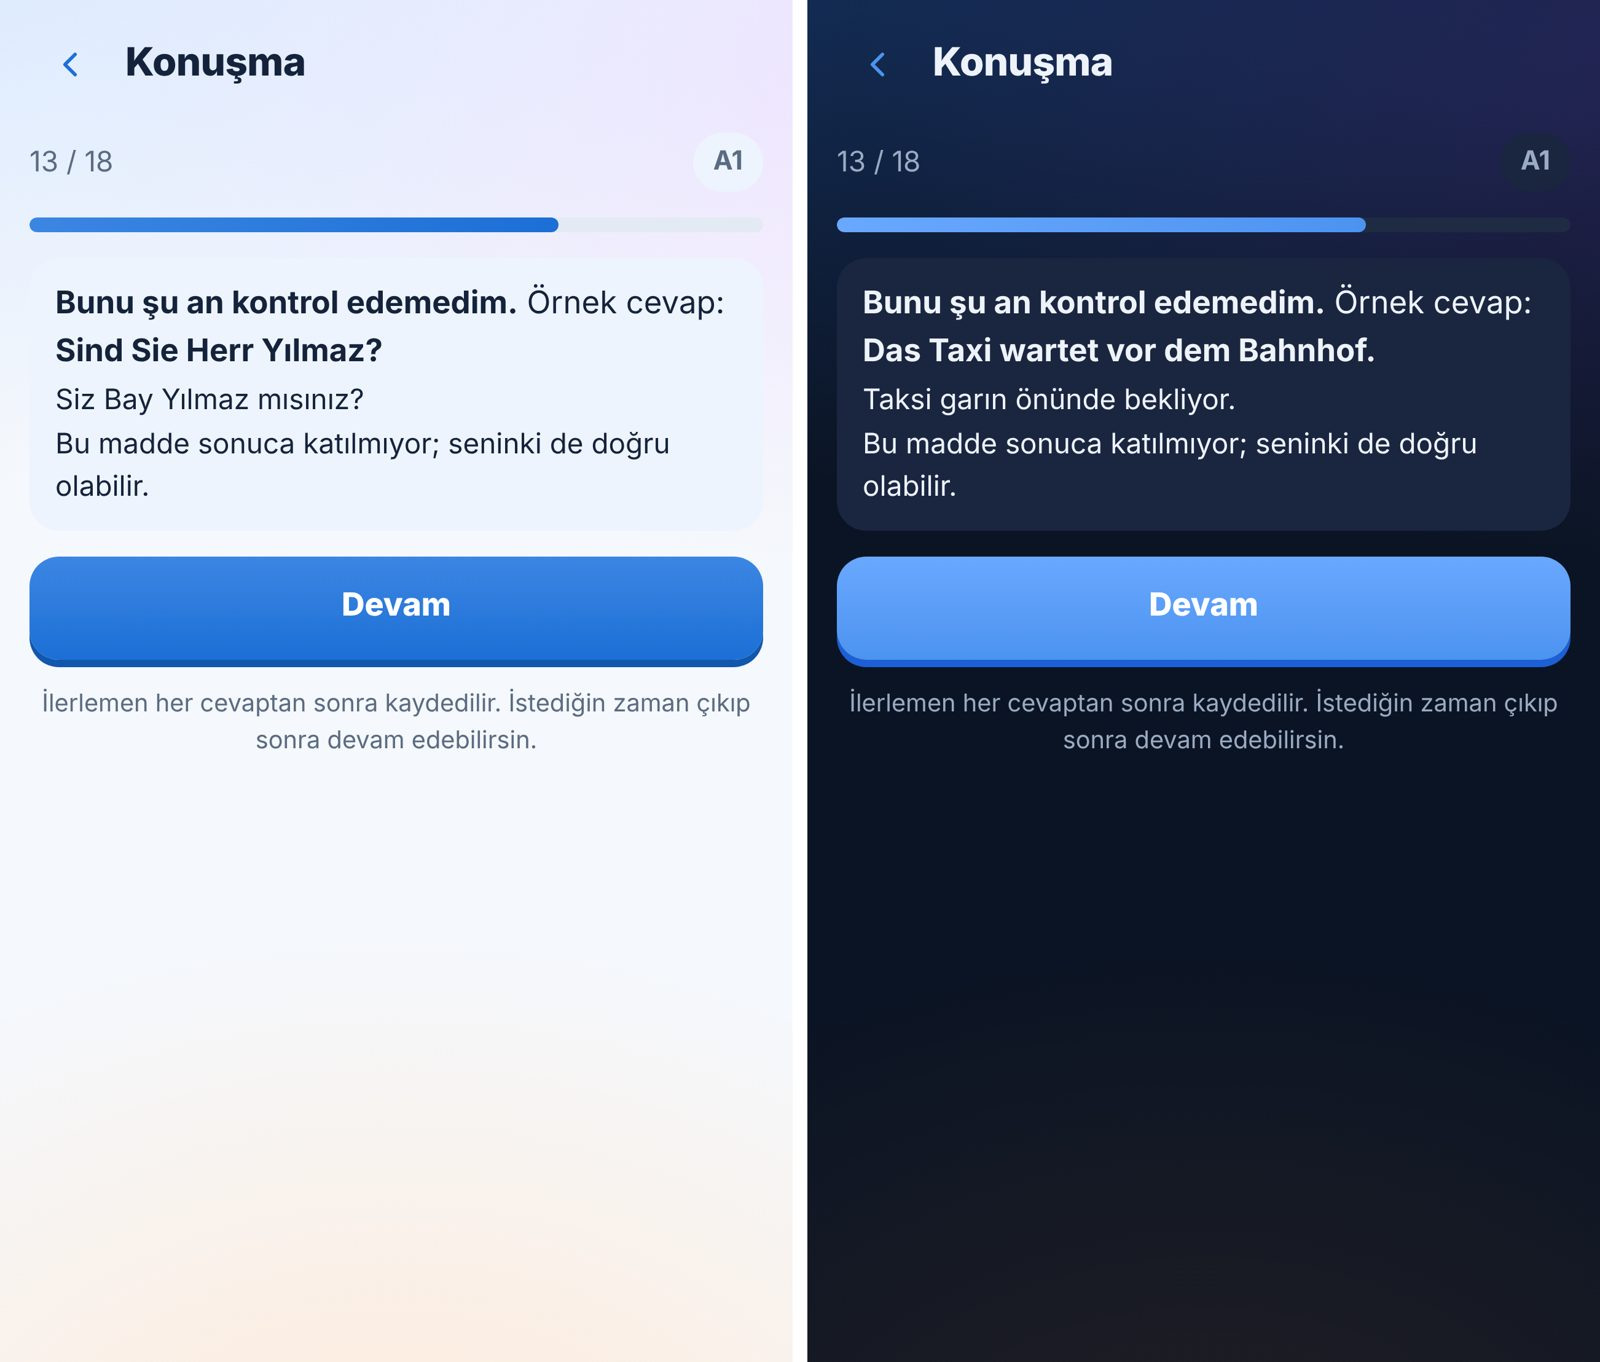
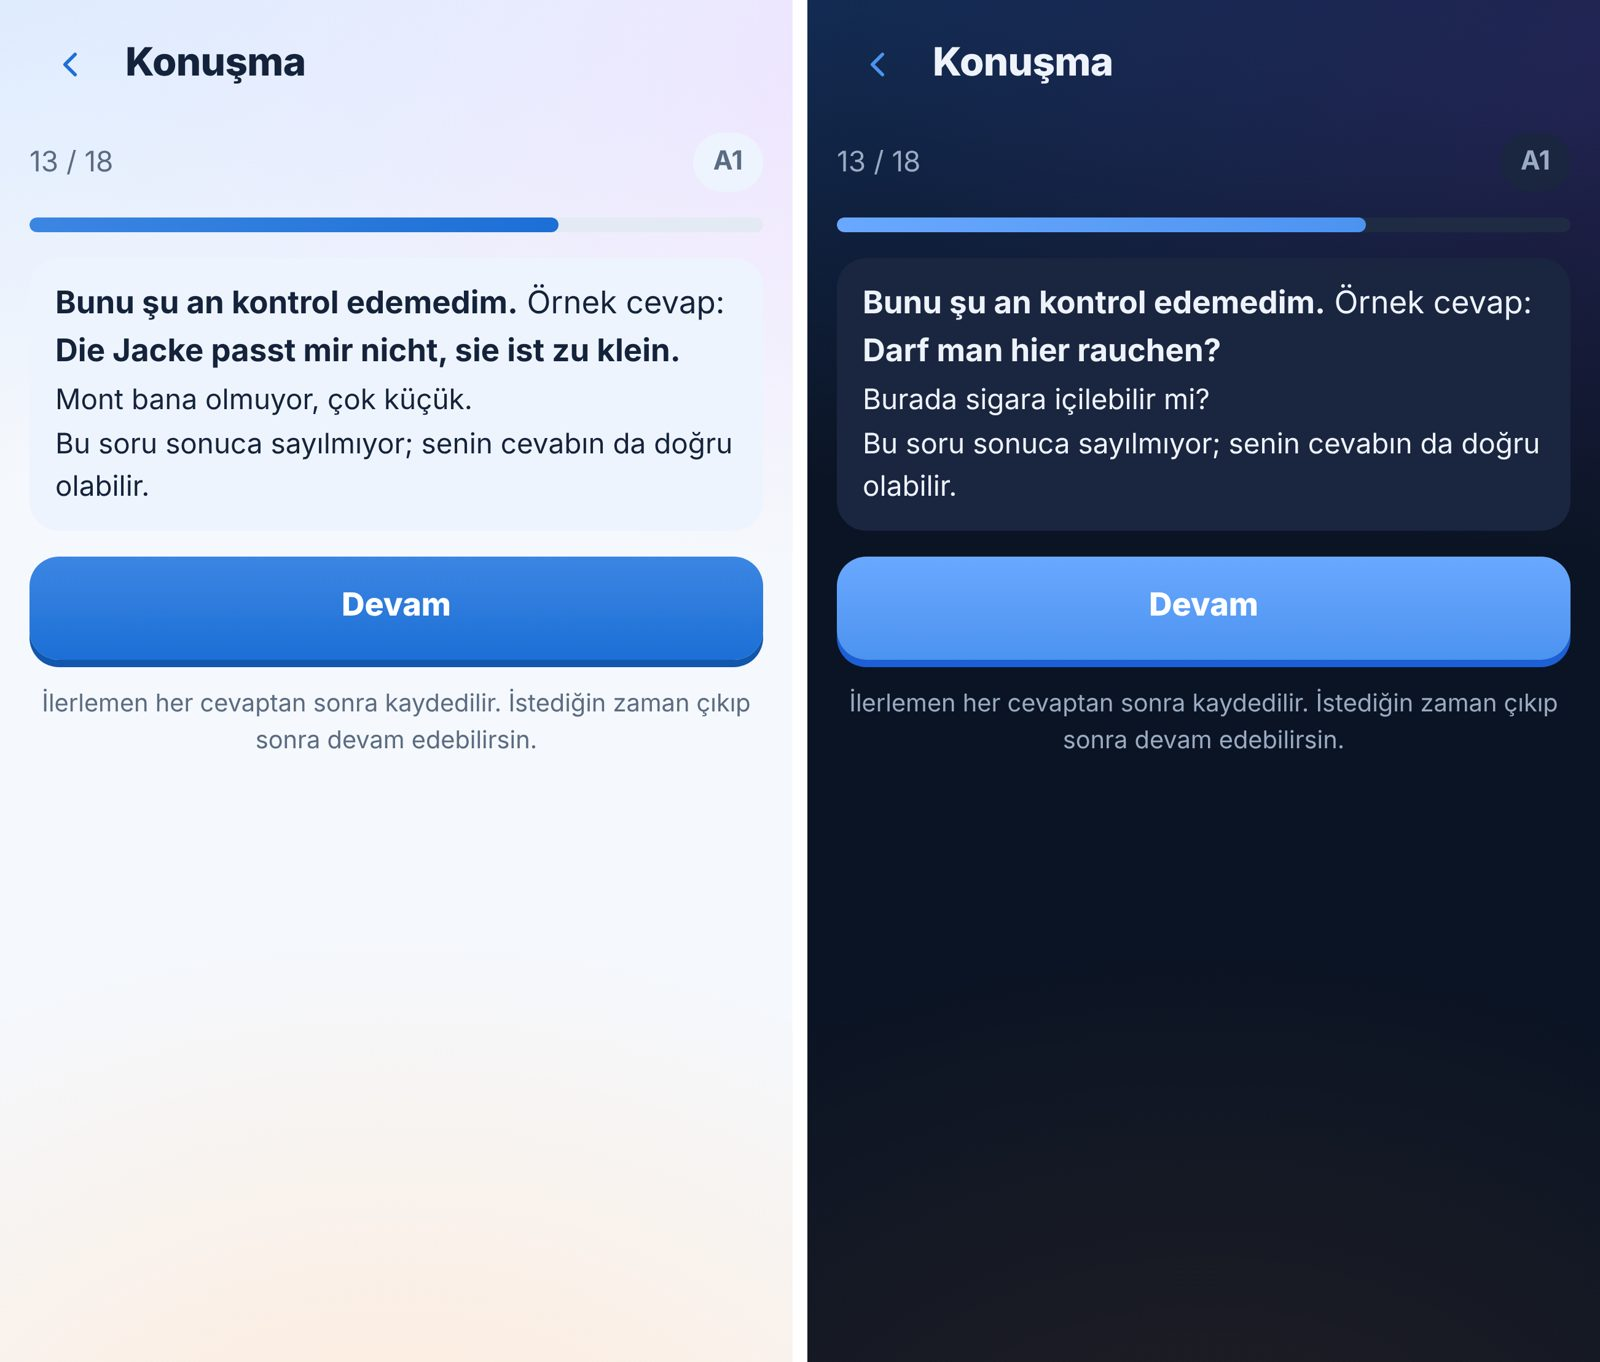
#218 takipleri: inceleme #249 1. tur
P1-1: yalnız işlev sözcüklerinden iki kelimelik eşdizim ("ich nicht") cümlede kalıp sayılmaz; aynı kalıp
ikinci kez geçerse de kapanır. P1-2: tespitte devre kesici açıkken cevap denetlenemedi sayılır; bütün
cevapları denetlenemeyen seviye tahmini kesmez (ölçülemedi, atlanır); e2e bütün konuşma maddelerine bakar.
P2: gündelik biçim kendi anlamıyla; "Bu soru sonuca sayılmıyor; senin cevabın da doğru olabilir.";
forbidden metni genel. Görüntüler yenilendi.

Claude-Session: https://claude.ai/code/session_016gishFzSCLgyy6gms3wQN2

Changed region(s): [[0.0312, 0.2467, 0.4688, 0.3392], [0.5312, 0.2467, 0.9688, 0.3392]]

diff --git a/web/src/core/sozluk.test.ts b/web/src/core/sozluk.test.ts
@@ -38,14 +38,28 @@ describe("yerel sözlük (#58 A11)", () => {
   it("iletişim kalıbı önce: senaryonun kalıbı ne zaman söylendiğiyle gelir; bütün ifade de kalıbın kendisi", () => {
     const ch = [{ id: "ch:gruess-gott", tr: "Merhaba (güneyde selam)", lexemes: [], register: "neutral", layers: { hd: "Guten Tag!", alltag: "Grüß Gott!" }, alltag_exp: { anlam_tr: "Merhaba.", ne_zaman_tr: "Bavyera'da **selamlaşırken** söylenir.", parcalar: [] }, requires: [], mistakes_tr: [] }] as never;
     const lx = [...LEX, L({ id: "Gott", de: "Gott", tr: "Tanrı", pos: "noun", art: "der", collocations: [{ de: "Grüß Gott!", tr: "Merhaba!" }] })];
-    expect(yerelAcikla("Grüß Gott!", lx, { chunks: ch })).toEqual({ kaynak: "ifade", de: "Grüß Gott!", tr: "Merhaba (güneyde selam)", not: "Bavyera'da selamlaşırken söylenir." });
+    expect(yerelAcikla("Grüß Gott!", lx, { chunks: ch })).toEqual({ kaynak: "ifade", de: "Grüß Gott!", tr: "Merhaba.", not: "Bavyera'da selamlaşırken söylenir." });
     const a = yerelAcikla("Grüß Gott, Frau Huber!", lx, { chunks: ch })!;
-    expect(a.ifadeler).toEqual([{ de: "Grüß Gott!", tr: "Merhaba (güneyde selam)", not: "Bavyera'da selamlaşırken söylenir." }]);
+    expect(a.ifadeler).toEqual([{ de: "Grüß Gott!", tr: "Merhaba.", not: "Bavyera'da selamlaşırken söylenir." }]);
   });
   it("kalıp örneği bütün olarak; yer tutuculu eşdizim (___, [Name]) eşleşmez", () => {
     const pt = [{ id: "pt:ich-habe", examples: [{ de: "Ich habe morgen Zeit.", tr: "Yarın vaktim var.", layer: "hd" }] }] as never;
     expect(yerelAcikla("Ich habe morgen Zeit.", LEX, { patterns: pt })).toMatchObject({ kaynak: "ifade", tr: "Yarın vaktim var." });
     const lx = [L({ id: "x", de: "machen", tr: "yapmak", pos: "verb", collocations: [{ de: "___ machen", tr: "yapmak" }] }), ...LEX];
     expect(yerelAcikla("Sie machen das gut.", lx)?.ifadeler).toBeUndefined();
+  });
+  it("yalnız işlev sözcüklerinden iki kelimelik eşdizim cümlede kalıp sayılmaz; aynı kalıp iki kez geçerse ikisi de kapanır (inceleme #249)", () => {
+    const lx = [...LEX, L({ id: "ich", de: "ich", tr: "ben", pos: "pron", collocations: [{ de: "ich nicht", tr: "ben değil" }] }), L({ id: "kennen", de: "kennen", tr: "tanımak", pos: "verb" }), L({ id: "nicht", de: "nicht", tr: "değil", pos: "adv" }),
+      L({ id: "Gott", de: "Gott", tr: "Tanrı", pos: "noun", art: "der", collocations: [{ de: "Grüß Gott!", tr: "Merhaba!" }] })];
+    const a = yerelAcikla("Das Wort kenne ich nicht.", lx)!;
+    expect(a.ifadeler).toBeUndefined();
+    expect(a.kelimeler!.map((k) => k.de)).toEqual(expect.arrayContaining(["ich", "nicht"]));
+    const b = yerelAcikla("Grüß Gott, Grüß Gott!", lx)!;
+    expect(b.ifadeler).toEqual([{ de: "Grüß Gott!", tr: "Merhaba!" }]);
+    expect(b.kelimeler!.map((k) => k.de)).not.toContain("Gott");
+  });
+  it("iletişim kalıbının gündelik biçimi kendi anlamıyla", () => {
+    const ch = [{ id: "ch:x", tr: "Nasılsınız?", lexemes: [], register: "neutral", layers: { hd: "Wie geht es Ihnen?", alltag: "Wie geht's?" }, alltag_exp: { anlam_tr: "Nasılsın?", parcalar: [] }, requires: [], mistakes_tr: [] }] as never;
+    expect(yerelAcikla("Wie geht's?", LEX, { chunks: ch })).toMatchObject({ kaynak: "ifade", tr: "Nasılsın?" });
   });
 });

diff --git a/web/src/core/sozluk.ts b/web/src/core/sozluk.ts
@@ -31,6 +31,12 @@ const duz = (s?: string) => s?.replace(/\*\*/g, "").trim() || undefined;
 /** Yer tutucusuz ifadeler (yer tutucu: ___, …, [Name], {name}, "+ isim") */
 const ifadeMi = (de: string) => !/_{2,}|…|\.\.\.|\[|\{|\+/.test(de);
 const parcala = (s: string) => norm(s).split(" ").filter(Boolean);
+/**
+ * İşlev sözcükleri: yalnız bunlardan oluşan iki kelimelik kalıp ("ich nicht = ben değil") cümlede kalıp sayılmaz; "Das Wort kenne
+ * ich nicht" içinde yanlış eşleşir (inceleme #249 P1-1). Normalleştirilmiş biçimler (norm: ü → ue).
+ */
+const ISLEV = new Set("ich du er sie es wir ihr man nicht kein keine und oder aber denn das der die den dem des ein eine einen einem einer ist bin bist sind war hat habe hast haben zu im in an am auf mit von vom zum zur fuer bei ja nein so wie was wo nur auch noch schon mal bitte da hier dann jetzt sehr gut mir dir mich dich uns euch ihn ihm".split(" "));
+const kalipMi = (t: string[]) => t.length >= 3 || (t.length === 2 && t.some((w) => !ISLEV.has(w)));
 function adayEkle(a: Aday[], de: string | undefined, tr: string | undefined, o: Partial<Aday> = {}) {
   if (!de || !tr || !ifadeMi(de)) return;
   const t = parcala(temiz(de));
@@ -42,7 +48,8 @@ function ekAdaylar(ek: YerelEk): Aday[] {
   for (const c of ek.chunks ?? []) {
     const not = duz(c.exp?.ne_zaman_tr);
     adayEkle(a, c.layers.hd, c.tr, { not });
-    adayEkle(a, c.layers.alltag, c.tr, { not: duz(c.alltag_exp?.ne_zaman_tr) ?? not });
+    // gündelik biçimin kendi anlamı varsa o (inceleme #249 P2)
+    adayEkle(a, c.layers.alltag, duz(c.alltag_exp?.anlam_tr) ?? c.tr, { not: duz(c.alltag_exp?.ne_zaman_tr) ?? not });
     if (c.layers.bair?.status === "verified") adayEkle(a, c.layers.bair.text, c.tr, { not: duz(c.layers.bair.note_tr) ?? not });
   }
   for (const p of ek.patterns ?? []) for (const x of p.examples) adayEkle(a, x.de, x.tr);
@@ -99,12 +106,12 @@ export function yerelAcikla(metin: string, lex: Lexeme[], ek: YerelEk = {}): Yer
   const kapali = new Array<boolean>(tok.length).fill(false);
   const bulunan: { i: number; x: Aday }[] = [];
   // sıralama kararlı: aynı uzunlukta iletişim kalıbı karttan önce gelir
-  for (const x of [...ekA, ...kartAdaylar(lex)].filter((y) => y.t.length >= 2 && y.t.length <= tok.length).sort((p, q) => q.t.length - p.t.length)) {
+  for (const x of [...ekA, ...kartAdaylar(lex)].filter((y) => kalipMi(y.t) && y.t.length <= tok.length).sort((p, q) => q.t.length - p.t.length)) {
     for (let i = 0; i + x.t.length <= tok.length; i++) {
       if (x.t.every((w, j) => tok[i + j] === w && !kapali[i + j])) {
+        // her geçiş kapanır (aynı kalıp ikinci kez geçerse kelime kelime bölünmez); listede bir kez
         for (let j = 0; j < x.t.length; j++) kapali[i + j] = true;
         if (!bulunan.some((b) => norm(b.x.de) === norm(x.de))) bulunan.push({ i, x });
-        break;
       }
     }
   }

diff --git a/web/src/screens/Assess.tsx b/web/src/screens/Assess.tsx
@@ -200,6 +200,9 @@ function Build({ it, onAnswer }: { it: Extract<AssessItem, { skill: "building" }
   );
 }
 
+/** Denetlenemeyen cevabın notu (öğrenci dili; inceleme #249 P2) */
+const KONTROL_YOK = "Bu soru sonuca sayılmıyor; senin cevabın da doğru olabilir.";
+
 function Speak({ it, onAnswer }: { it: Extract<AssessItem, { skill: "speaking" }>; onAnswer: OnAnswer }) {
   const { api } = useApp();
   const [typed, setTyped] = useState("");
@@ -214,7 +217,11 @@ function Speak({ it, onAnswer }: { it: Extract<AssessItem, { skill: "speaking" }
     if (j.ok) return onAnswer({ ...base(it), correct: true, given: j.heard, mode }, { ok: true, right: j.best, tr: it.tr });
     // hazır listede olmayan ama doğru olabilecek cevap: sunucudaki öğretmene sorulur (en fazla ~12 sn); sunucu yoksa kural sonucu geçerli
     // sağlayıcı kapalıysa ya da devre kesici açıksa sorulmaz (inceleme #123 P1-1; diğer yapay zekâ yüzeyleriyle aynı kapı)
-    if (aiState(api).available && j.heard) {
+    // devre kesici açık (yapay zekâ az önce art arda düştü): geçici kesinti, cevap yanlış sayılmaz (inceleme #249 P1-2).
+    // Sağlayıcı hiç yoksa (yapay zekâsız sürüm) kuralların kararı geçerlidir.
+    const st = aiState(api);
+    if (!st.available && st.openUntil && j.heard) return onAnswer({ ...base(it), correct: false, unchecked: true, given: j.heard, mode }, { ok: false, unchecked: true, right: it.de, tr: it.tr, note: KONTROL_YOK });
+    if (st.available && j.heard) {
       setState("checking");
       try {
         const r = await ai(api, "equiv_check", { prompt_tr: it.tr, expected: variants, answer: j.heard });
@@ -223,7 +230,7 @@ function Speak({ it, onAnswer }: { it: Extract<AssessItem, { skill: "speaking" }
       } catch {
         setState("idle");
         // yapay zekâ denetimi düştü: cevap "yanlış" sayılmaz, puana girmez (ANA-E devri 7090637496 takip; PM-112 A.3)
-        return onAnswer({ ...base(it), correct: false, unchecked: true, given: j.heard, mode }, { ok: false, unchecked: true, right: it.de, tr: it.tr, note: "Bu madde sonuca katılmıyor; seninki de doğru olabilir." });
+        return onAnswer({ ...base(it), correct: false, unchecked: true, given: j.heard, mode }, { ok: false, unchecked: true, right: it.de, tr: it.tr, note: KONTROL_YOK });
       }
     }
     onAnswer({ ...base(it), correct: false, given: j.heard, mode }, { ok: false, right: it.de, tr: it.tr, note: heard ? `Duyulan: „${j.heard}“` : undefined });

diff --git a/web/src/core/assess.ts b/web/src/core/assess.ts
@@ -88,7 +88,9 @@ export function score(items: AssessItem[], answers: AssessAnswer[]): { results: 
     // sorulmayan (uyarlama ile atlanan) üst seviye maddeleri yanlış sayılır
     for (const it of items.filter((i) => i.skill === skill)) if (!answers.some((a) => a.itemId === it.id)) byLevel[it.level].total++;
     let est: Level | "below-A1" = "below-A1";
-    for (const l of LEVELS) { const b = byLevel[l]; if (b.total && b.correct / b.total >= 0.6) est = l; else break; }
+    // bir seviyenin bütün cevapları denetlenemediyse o seviye ölçülemedi: tahmini kesmez, atlanır (inceleme #249 P1-2)
+    const olculemedi = (l: Level) => !byLevel[l].total && answers.some((a) => a.skill === skill && a.level === l && a.unchecked);
+    for (const l of LEVELS) { const b = byLevel[l]; if (olculemedi(l)) continue; if (b.total && b.correct / b.total >= 0.6) est = l; else break; }
     const total = LEVELS.reduce((s, l) => s + byLevel[l].total, 0);
     const correct = LEVELS.reduce((s, l) => s + byLevel[l].correct, 0);
     results.push({ skill, correct, total, byLevel, estimate: est, confidence: total >= 9 ? "high" : total >= 6 ? "medium" : "low" });

diff --git a/packages/shared/src/api.ts b/packages/shared/src/api.ts
@@ -28,7 +28,7 @@ export type ApiError = z.infer<typeof ApiError>;
 /** Öğrenci dili (PM finali #218): "sunucu", "hata kodu", "geçersiz istek" gibi teknik söz yok; istemci metni buradan alır */
 export const ERROR_TR: Record<ErrorCode, { message_tr: string; retryable: boolean; status: number }> = {
   unauthenticated: { message_tr: "Oturumun sona ermiş. Lütfen yeniden giriş yap.", retryable: false, status: 401 },
-  forbidden: { message_tr: "Bu hesapla yapay zekâ özellikleri açık değil.", retryable: false, status: 403 },
+  forbidden: { message_tr: "Bu özellik bu hesapla şu an kullanılamıyor.", retryable: false, status: 403 },
   quota_user: { message_tr: "Bugünkü yapay zekâ hakkın doldu. Yapay zekâsız alıştırmalarla devam edebilirsin.", retryable: false, status: 429 },
   quota_upstream: { message_tr: "Yapay zekânın ücretsiz kullanım payı doldu. Biraz sonra ya da yarın tekrar dene; şimdilik uygulamanın kendi kuralları geçerli.", retryable: true, status: 429 },
   upstream_busy: { message_tr: "Yapay zekâ şu an çok yoğun (senin hakkınla ilgisi yok). Birazdan tekrar dene.", retryable: true, status: 503 },

diff --git a/web/src/core/assess.test.ts b/web/src/core/assess.test.ts
@@ -29,6 +29,10 @@ describe("seviye tespiti", () => {
     // A1'de denetlenen tek cevap doğru: A2 konuşma maddeleri kapanmaz
     const a2 = items.find((i) => i.skill === "speaking" && i.level === "A2");
     if (a2) expect(nextItem(items.filter((i) => i.skill === "speaking"), ans)?.level).toBe("A2");
+    // kesinti bütün A1 konuşma cevaplarını denetlenemez yaptıysa: seviye ölçülemedi, tahmin "A1 öncesi"ne düşmez (inceleme #249 P1-2)
+    const sp2 = items.filter((i) => i.skill === "speaking");
+    const hepsi = sp2.map((it) => (it.level === "A1" ? { ...answer(it, false), unchecked: true } : answer(it, true)));
+    expect(score(items, hepsi).results.find((x) => x.skill === "speaking")!.estimate).not.toBe("below-A1");
     const vp = items.find((i) => i.skill === "vocab_passive")!;
     expect(applyAssessment(new Map(), [{ ...answer(vp, false), unchecked: true }])).toEqual([]);
   });

diff --git a/tests/e2e/v2_yz_hata.py b/tests/e2e/v2_yz_hata.py
@@ -296,7 +296,7 @@ def tespit_denetim(ctx):
     ad = "equiv_check/tespit-500"; srv = Sunucu("equiv_check", "500")
     pg = sayfa(ctx, srv)
     pg.goto(f"http://127.0.0.1:{PORT}/#/assess"); pg.wait_for_selector("[data-test=assess-begin]"); pg.click("[data-test=assess-begin]")
-    bulunan = None
+    bulunan = None; hepsi = []
     for _ in range(60):
         pg.wait_for_selector("[data-test=feedback], button.opt[data-opt], [data-chip], [data-test=answer], [data-test=overall]")
         if pg.locator("[data-test=overall]").count(): break
@@ -306,15 +306,18 @@ def tespit_denetim(ctx):
                 pg.fill("[data-test=answer]", "Ich habe einen Termin"); pg.locator("form button[type=submit]").click()
             else: pg.click("[data-test=dunno]")
             pg.wait_for_selector("[data-test=feedback]", timeout=15000)
-            if konusma and bulunan is None:
+            if konusma:
                 f = pg.locator("[data-test=feedback]")
-                bulunan = (f.inner_text(), f.get_attribute("class") or "")
+                hepsi.append(f.inner_text())
+                if bulunan is None: bulunan = (f.inner_text(), f.get_attribute("class") or "")
         pg.click("[data-test=next]")
     check(bulunan is not None, f"{ad}: konuşma maddesine gelindi")
     if bulunan:
         t, sinif = bulunan
-        check("kontrol edemedim" in t and "olmadı" not in t and " bad" not in f" {sinif}" and "sonuca katılmıyor" in t, f"{ad}: 'Bunu şu an kontrol edemedim' (bilgi, yanlış değil): {t.splitlines()[0][:60]!r}")
+        check("kontrol edemedim" in t and "olmadı" not in t and " bad" not in f" {sinif}" and "sonuca sayılmıyor" in t, f"{ad}: 'Bunu şu an kontrol edemedim' (bilgi, yanlış değil): {t.splitlines()[0][:60]!r}")
         check(not re.search(r"sunucu|hata kodu|geçersiz", t, re.I), f"{ad}: teknik söz yok")
+    # 3. hatada devre kesici açılır; sonraki konuşma maddeleri de "yanlış" sayılmaz (inceleme #249 P1-2)
+    check(len(hepsi) >= 4 and all("kontrol edemedim" in x and "olmadı" not in x for x in hepsi), f"{ad}: devre kesici açıkken de bütün konuşma cevapları denetlenemedi sayıldı ({len(hepsi)} madde)")
     pg.close()
 
 def main():
